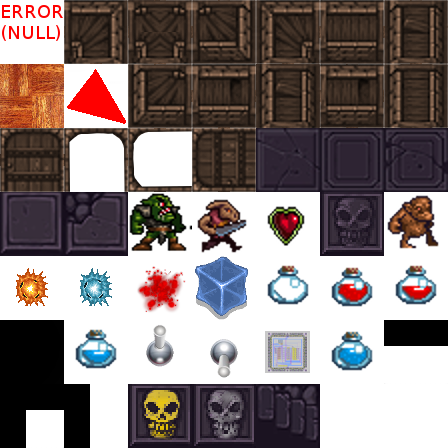
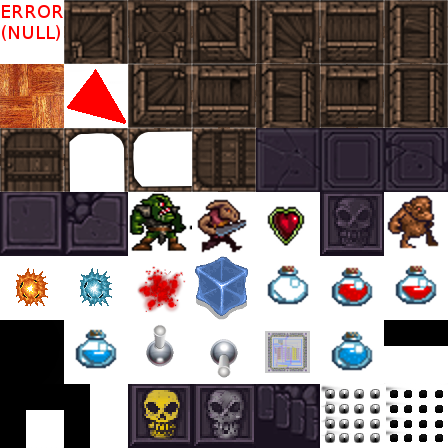
Added traps in form of spikes. they can be activated or deactivated on the whim using either silver skulls or locks

Changed region(s): [[0.7188, 0.8438, 1.0, 1.0]]

diff --git a/src/MapLogic/map.cpp b/src/MapLogic/map.cpp
@@ -10,6 +10,7 @@
 #include "door.h"
 #include "skull.h"
 #include "stairs.h"
+#include "spikes.h"
 using namespace std;
 
 
@@ -78,6 +79,12 @@ LoadedMap::LoadedMap(const char * path) {
 				break;
 			case 'd':
 				new_field= new Field(IField::DESK);
+				break;
+			case '#':
+				new_field= new Spikes(true);
+				break;
+			case '%':
+				new_field= new Spikes(false);
 				break;
 			case 'u':
 				new_field= new Field(IField::POWERUP);

diff --git a/src/MapLogic/spikes.cpp b/src/MapLogic/spikes.cpp
@@ -1,0 +1,27 @@
+#include "../Character.h"
+#include "field.h"
+#include "field_impl.h"
+#include "spikes.h"
+
+int Spikes::GetType()
+{
+	if (is_on>0)
+		return SPIKES_ON;
+	else
+		return SPIKES_OFF;
+}
+void Spikes::SteppedOver(Character * who)
+{
+	if (is_on>0)
+		who->crucio(10);
+	Field::SteppedOver(who);
+}
+
+void Spikes::Activate()
+{
+	is_on++;
+}
+void Spikes::Deactivate()
+{
+	is_on--;
+}

diff --git a/src/MapLogic/spikes.h b/src/MapLogic/spikes.h
@@ -1,0 +1,23 @@
+#ifndef __SPIKES_FIELD_H
+#define __SPIKES_FIELD_H
+#include <list>
+#include "field.h"
+
+class Spikes: public Field
+{
+protected:
+	int is_on;
+public:
+	void Activate();
+	void Deactivate();
+	int GetType();
+	void SteppedOver(Character * who);
+
+	Spikes(bool _is_on)
+		: Field(_is_on?SPIKES_ON:SPIKES_OFF)
+	{
+		is_on=_is_on;
+	}
+};
+
+#endif

diff --git a/src/MapLogic/field.cpp b/src/MapLogic/field.cpp
@@ -46,6 +46,8 @@ void Field::EnsureFieldIdsInitialized()
 	assigned_field[SWITCH_UP] = 37;
 	assigned_field[TRAP] = 30;
 	assigned_field[STAIRS] = 46;
+	assigned_field[SPIKES_ON] = 47;
+	assigned_field[SPIKES_OFF] = 48;
 	assigned_field[EVIL_COMPUTER] = 39;
 	initialized = true;
 }

diff --git a/src/MapLogic/field.h b/src/MapLogic/field.h
@@ -41,6 +41,8 @@ public:
 		EMPTY_FLASK,
 		SWITCH_UP,
 		STAIRS,
+		SPIKES_ON,
+		SPIKES_OFF,
 		TRAP,
 		SWITCH_DOWN,
 		EVIL_COMPUTER, /*spawns fireballs everywhere*/
